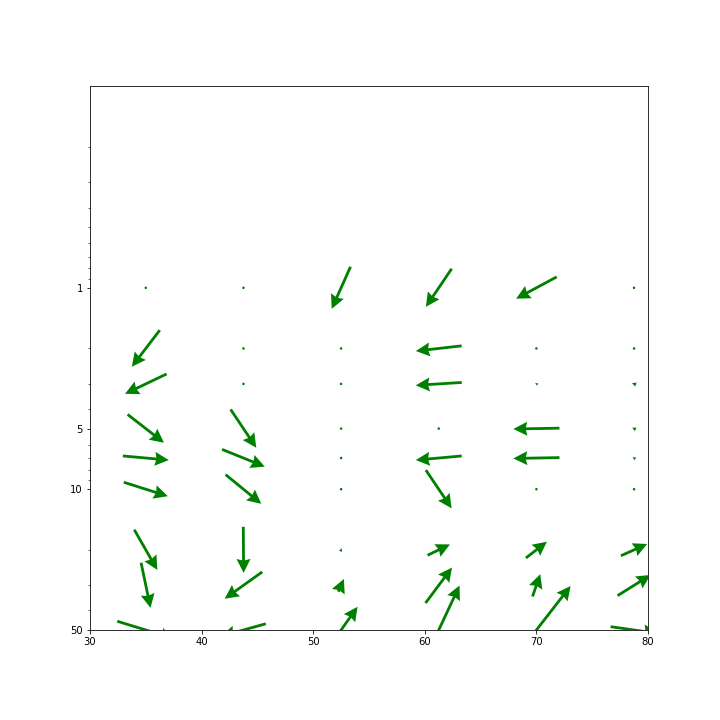
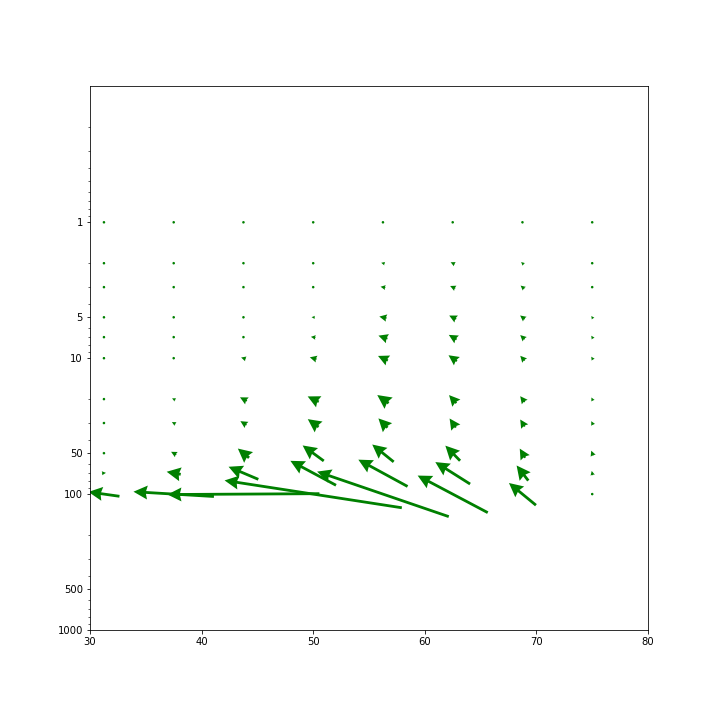
change files

diff --git a/02_e-p_flux.py b/02_e-p_flux.py
@@ -2,90 +2,83 @@
 # %%
 import numpy as np
 import math
+from datetime import date
+
+year = 2020
+month = 9
+day = 20
+fday = date(year,1,1)
+
+dc = (date(year,month,day)-fday).days + 1
 
 namelist = ['temp','ugrd','vgrd']
-kindlist = ['data','zonal','dev']
+# kindlist = ['data','zonal','dev']
+kindlist = ['dev']
 
 for kind in kindlist:
     for name in namelist:
-        savefile = f'../../dataJRA55/{name}/{name}_one_day_{kind}.npy'
+        savefile = f'../../data/JRA55/{name}/{year}/{year}d{str(dc).zfill(3)}_{name}_{kind}.npy'
         globals()[kind + name] = np.load(savefile)
 
 pcord = np.array([1000,975,950,925,900,875,850,825,800,775,750,700,
         650,600,550,500,450,400,350,300,250,225,200,175,150,125,100,70,
         50,30,20,10,7,5,3,2,1])*100
 
-phicord = np.arange(-90,91,1.25)*(2.*math.pi/180.)
+print(pcord)
+
+phicord = np.arange(-90,91,1.25)*(math.pi/180.)
 
 a = 6.37e+6
 R = 287
 Cp = 1004
 K = R/Cp
 g0 = 9.80665
-ps = 1.00e+5
+ps = 100000
 omega = 7.29e-5
 Ts =  240
 H = R*Ts/g0
-# print(H)
 rhos = ps/R/Ts
-# print(rhos)
 Fy = np.zeros((145,37),dtype=np.float64)*np.nan
 Fz = np.zeros((145,37),dtype=np.float64)*np.nan
 N_2 = 4.0e-4
 f = 2*omega*np.sin(phicord)
-# print(np.sin(phicord))
 
 vudev_mean = np.mean(devvgrd*devugrd,axis=2)
 rho = rhos*(pcord/ps)
 Fy = (((-1)*a*vudev_mean*np.cos(phicord)).T*rho).T
 
 vTdev_mean = np.mean(devvgrd*devtemp,axis=2)
-# Fz = ((a*np.cos(phicord)*f*R*vTdev_mean/(N**2*H)).T*rho).T
 Fz = ((a*np.cos(phicord)*f*R*vTdev_mean/(N_2*H)).T*rho).T
-
 
 # theta = (datatmp.T*(ps/pcord)**K).T # 3次元
 # thetadev = (theta.T - np.mean(theta).T).T
 # vthetadev_mean = np.mean(devvgrd*thetadev,axis=2)
 # theta_z_dev = theta*K/H
 # Fz = ((a*np.cos(phicord)*f*vthetadev_mean/np.mean(theta_z_dev,axis=2)).T*rho).T
-# vector_scale = 1.0e+6
-vector_scale = 5.0e+4
-lim = 50
-# print(Fy)
-# print(np.mean(Fy,axis=1))
-# print(Fy.shape)
-# print(Fz.shape)
-# print(Fy[-11:,:])
-# print(Fz[-11:,:])
+
+vector_scale = 1.0e+6
+# vector_scale = 5.0e+4
+lim = 100
+mabiki = 5
 test1 = np.mean(Fy[-11:,:],axis=1)
-# print(test1)
-# print(len(test1))
 test2 = np.mean(Fz[-11:,:],axis=1)
-# print(test2)
-# print(len(test2))
 i = 5
 j = 20
 print((Fy[-1*i,2::7]**2+(Fz[-1*i,2::7]*100)**2)**0.5/vector_scale)
 print((Fy[-1*j,2::7]**2+(Fz[-1*j,2::7]*100)**2)**0.5/vector_scale)
-# print(Fy[-9,2::7],(Fz[-9,2::7]*100))
-
-# print(np.mean(Fz,axis=1))
-# T = datatmp[day,k,j,i]
-# z = -1*H*math.log(p/ps)
-# rho = rhos*math.e**((-1)*z/H)
 
 import matplotlib.pyplot as plt
 fig, ax = plt.subplots(figsize=(10, 10),facecolor='white')
-# fig = plt.figure(facecolor='white')
-
 
 pcord = np.array([1000,975,950,925,900,875,850,825,800,775,750,700,
         650,600,550,500,450,400,350,300,250,225,200,175,150,125,100,70,
         50,30,20,10,7,5,3,2,1])
+
 ycord = np.arange(-90, 90.1, 1.25)
-ylon=([ 50, 10, 5, 1])
-chei=([ "50", "10", "5", "1"])
+# ylon=([ 50, 10, 5, 1])
+# chei=([ "50", "10", "5", "1"])
+ylon=([1000, 500, 100, 50, 10, 5, 1])
+chei=(["1000", "500", "100", "50", "10", "5", "1"])
 ax.set_ylim(lim,1.0e-1)
 ax.set_xlim(30,80)
 ax.set_yscale('log')
@@ -96,19 +89,9 @@ for a in range(len(pcord)):
     if pcord[a] == lim:
         num = a
 
-
-# print(pcord)
 X,Y=np.meshgrid(ycord,pcord)
-
-q = plt.quiver(X[num:,2::7], Y[num:,2::7], Fy[num:,2::7], Fz[num:,2::7]*100,pivot='middle',
+q = plt.quiver(X[num:,2::mabiki], Y[num:,2::mabiki], Fy[num:,2::mabiki], Fz[num:,2::mabiki]*100,pivot='middle',
                 scale_units='xy', headwidth=5,scale=vector_scale, color='green',width=0.005)
-# ylon=([1000, 500, 100, 50, 10, 5, 1])
-# chei=(["1000", "500", "100", "50", "10", "5", "1"])
 plt.savefig('./warota.png')
-
 # %%
 
-aa = np.arange(30)
-
-print(aa)
-print(aa[2::3])

diff --git a/01_E-P_flux.py b/01_E-P_flux.py
@@ -1,46 +1,55 @@
 # %%
+from matplotlib.pyplot import savefig
 import numpy as np
 import math
 from datetime import date
+import os
+
+year = 2020
 
 Fy = np.zeros((145,37),dtype=np.float64)*np.nan
 Fz = np.zeros((145,37),dtype=np.float64)*np.nan
 
 namelist = ['temp','ugrd','vgrd']
 
-def hensa(name,day):
+def hensa(name,year):
+    dayc = (date(year,12,31)-date(year,1,1)).days + 1
+
     # file = f'D:/気象データ/{name}/anl_p_{name}.2020.bin'
-    file = f'D:/dataJRA55/{name}/anl_p_{name}.2020.bin'
+    file = f'D:/data/JRA55/{name}/anl_p_{name}.{year}.bin'
     f = open(file, 'rb')
     print(f'{name} 読み込み中')
     array = np.fromfile(f,dtype='>f').reshape(366,37,145,288)
     print(f'{name} 読み込み完了')
     f.close()
-    data = array[day-1,:,:,::-1]
+    data = array[:,:,::-1]
+    # data = array[day-1,:,:,::-1]
     # del array
-    zonal = np.mean(data,axis=2)
+    zonal = np.mean(data,axis=3)
     # dev = data - zonal[..., np.newaxis]
     dev = (data.T - zonal.T).T
-    np.save(f'../../dataJRA55/{name}/{name}_one_day_data.npy', data)
-    np.save(f'../../dataJRA55/{name}/{name}_one_day_zonal.npy', zonal)
-    np.save(f'../../dataJRA55/{name}/{name}_one_day_dev.npy', dev)
+    # np.save(f'../../dataJRA55/{name}/{name}_one_day_data.npy', data)
+    # np.save(f'../../dataJRA55/{name}/{name}_one_day_zonal.npy', zonal)
+    for i in range(dayc):
+        savefile = f'../../data/JRA55/{name}/{year}/{year}d{str(i+1).zfill(3)}_{name}_dev.npy'
+        if i == 0:
+            if not os.path.exists(savefile[:16]):
+                os.mkdir(savefile[:16])
+            if not os.path.exists(savefile[:16]+f'/{name}'):
+                os.mkdir(savefile[:16]+f'/{name}')         
+            if not os.path.exists(savefile[:16]+f'/{name}/{year}'):
+                os.mkdir(savefile[:16]+f'/{name}/{year}')         
+        np.save(savefile, dev[i])
     return 
     
-# ----------------------------
-year = 2020
-month = 2
-day = 1
-fday = date(year,1,1)
-
-dc = (date(year,month,day)-fday).days + 1
-# ---------------------------
-print(dc)
 for name in namelist:
-    # globals()['data'+ name], globals()['zonal'+ name], globals()['dev'+ name] = hensa(name,day)
-    hensa(name,dc)
+    hensa(name,year)
 
 print('finish!')
 # %%
+savefile = f'../../data/JRA55/{name}/{2020}/{year}d{str(i+1).zfill(3)}_{name}_dev.npy'
+print(savefile[:16])
+
 # pcord = np.array([1000,975,950,925,900,875,850,825,800,775,750,700,
 #         650,600,550,500,450,400,350,300,250,225,200,175,150,125,100,70,
 #         50,30,20,10,7,5,3,2,1])
